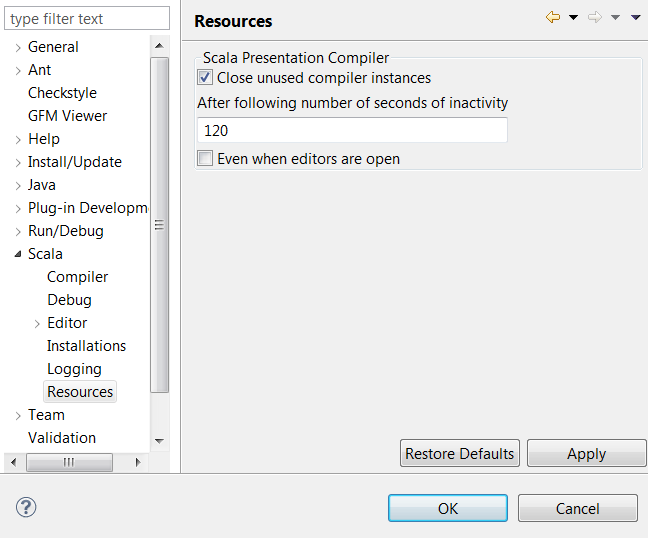
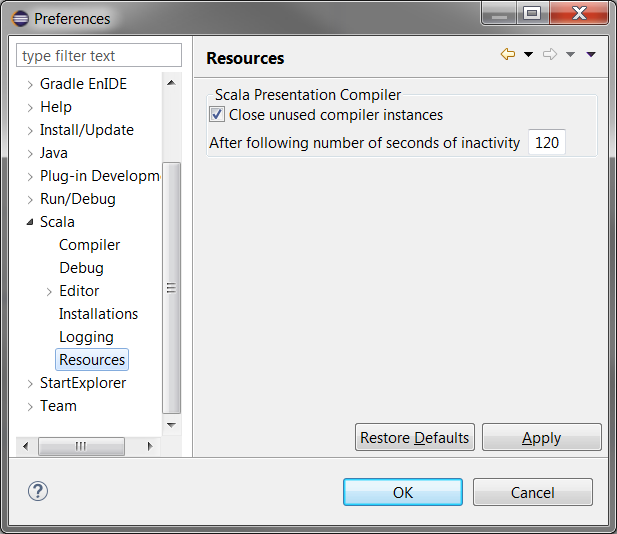
Update docs after removing an option to close SPCs with open editors
The checkbox has been removed so this commit provides the new
screenshot and also the description in Memory consumption section is
updated.

Changed region(s): [[0.0, 0.0, 1.0, 1.0]]

diff --git a/src/sphinx/4.0.x/advancedsetup/index.rst b/src/sphinx/4.0.x/advancedsetup/index.rst
@@ -113,17 +113,13 @@ The Scala IDE for Eclipse uses the Scala Presentation Compiler which provides se
 
 Each project has its own presentation compiler instance working in a separate thread. It is created after importing or opening a previously closed project, as well as when you open .scala file or type something and a presentation compiler didn't exist at a given moment.
 
-In the case of complex projects with many dependencies, each presentation compiler can consume a lot of memory.
-Therefore there's a special mechanism which can close presentation compilers automatically, when a given project still exists in a workspace, but when the user hasn't edited its code for a long time.
+In the case of complex projects with many dependencies, each presentation compiler can consume a lot of memory. Therefore, there's a special mechanism which can close presentation compilers automatically. It can do that when a given project still exists in a workspace, but when the user hasn't edited its code for a long time and there are no opened Scala Editors for the files managed by given presentation compilers.
 
-You can specify a length of inactivity in seconds, after which the presentation compiler can be closed. You can also decide whether inactive presentation compilers should be closed even if there are opened Scala Editors for the files they manage. Note that the presentation compiler will have to be recreated, when you will open a file or start typing in an existing file for such a project. This can cause a small delay but in most of cases it shouldn't be significant - up to several seconds in the case of big projects. After that there are no other noticeable effects.
+You can specify a length of inactivity in seconds, after which the presentation compiler can be closed. Note that the presentation compiler will have to be recreated, when you will open the first file for a project. This can cause a small delay but in most of cases it shouldn't be significant - up to several seconds in the case of big projects. After that there are no other noticeable effects.
 
 .. image:: images/closing-presentation-compilers.png
   :width: 80%
   :target: ../_images/closing-presentation-compilers.png
-
-.. note::
-   There's known problem which may occur when a presentation compiler is closed despite open Scala Editors being attached to it. They may prevent freeing the memory associated with the presentation compiler until you close them. The presentation compiler's thread will be always stopped.
 
 Suggested interesting keyboard shortcuts
 ----------------------------------------
